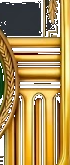
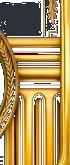
fix(lf): clean composite hero plate — no SoT inpaint (HARD FAIL 96268ce)
Build hero chrome from meander/cols/gold-only seal-ring on uniform empty
field; live DOM for type, justify local, and crest. Kill dead band (pt-0),
widen shell, soft-fade full-page watermark, fit long Therman titles.
Eng v5 settle shots. Band D HOLD.

Changed region(s): [[0.0, 0.3939, 0.0571, 0.6061]]

diff --git a/components/ClientHub.tsx b/components/ClientHub.tsx
@@ -3,7 +3,6 @@ import type { LfClient } from "@/lib/lf";
 import { resolveBrandLogoUrl } from "@/lib/lf-logo";
 import {
   HeroChromePlate,
-  LegalCircuitWatermark,
   MapThumbPlaceholder,
 } from "@/components/hub/HubDecor";
 
@@ -16,25 +15,19 @@ export function ClientHub({ client }: { client: LfClient }) {
   const base = `/clients/${client.slug}`;
   const logoUrl = resolveBrandLogoUrl(client.slug);
   const countsLine = `${client.location_count} locations | ${client.scan_count.toLocaleString()} Total scans`;
+  // Long firm names (e.g. Therman) — keep clear of seal; prefer natural wrap
+  const isLongName = client.name.length > 34;
 
   return (
-    <div className="relative space-y-7 text-slate-100">
-      {/* Dense legal + circuit watermark — z-0 (not -z-10; AppShell bg would hide negative z) */}
-      <div
-        className="pointer-events-none absolute inset-0 z-0 overflow-hidden"
-        aria-hidden
-      >
-        <LegalCircuitWatermark className="h-full min-h-[720px] w-full object-cover opacity-[0.42]" />
-      </div>
-
-      {/* Framed hero — photoreal SoT chrome (no opaque slate fill-plate; type floats on field) */}
+    <div className="relative space-y-5 text-slate-100">
+      {/* Framed hero — clean composite chrome; type/crest/logo live in DOM */}
       <section
         className="relative z-[1] overflow-hidden rounded-[16px] shadow-2xl shadow-black/55"
         style={{ backgroundColor: "#141618" }}
         aria-label={`${client.name} client dashboard`}
       >
         <div className="relative w-full" style={{ aspectRatio: "996 / 218" }}>
-          {/* Photoreal chrome: meander/columns/seal + field texture; SoT type stripped */}
+          {/* CLEAN composite plate: frame/cols/gold-ring + empty field (no baked glyphs) */}
           <HeroChromePlate className="pointer-events-none absolute inset-0 z-[1] h-full w-full object-fill" />
 
 
@@ -45,10 +38,10 @@ export function ClientHub({ client }: { client: LfClient }) {
               left: "84.5%",
               top: "51.5%",
               transform: "translate(-50%, -50%)",
-              width: "10.2%",
-              height: "47%",
-              backgroundColor: "color-mix(in srgb, var(--brand) 78%, #050805)",
-              boxShadow: "inset 0 0 12px rgba(0,0,0,0.55)",
+              width: "11.2%",
+              height: "51%",
+              backgroundColor: "color-mix(in srgb, var(--brand) 82%, #050805)",
+              boxShadow: "inset 0 0 10px rgba(0,0,0,0.5)",
             }}
           >
             {logoUrl ? (
@@ -80,15 +73,15 @@ export function ClientHub({ client }: { client: LfClient }) {
               />
             </div>
 
-            {/* Center stack — dynamic firm typography */}
-            <div className="min-w-0 flex-1 space-y-0.5 pr-[18%] text-center">
+            {/* Center stack — live firm typography (wraps; clears seal) */}
+            <div className="min-w-0 flex-1 space-y-0.5 px-1 pr-[24%] text-center sm:pr-[26%]">
               <h1
-                className="font-serif text-[clamp(1.25rem,2.8vw,2.6rem)] font-semibold leading-tight tracking-tight"
-                style={{
-                  color: "var(--brand-accent)",
-                  /* SoT floats type on field — no dark halo plate / ghost duplicate */
-                  textShadow: "0 1px 0 rgba(255,255,255,0.12)",
-                }}
+                className={
+                  isLongName
+                    ? "mx-auto max-w-[36ch] font-serif text-[clamp(0.7rem,1.55vw,1.45rem)] font-semibold leading-[1.15] tracking-tight break-words"
+                    : "font-serif text-[clamp(0.9rem,2.2vw,2.1rem)] font-semibold leading-[1.12] tracking-tight break-words"
+                }
+                style={{ color: "var(--brand-accent)" }}
               >
                 {client.name}
               </h1>

diff --git a/components/AppShell.tsx b/components/AppShell.tsx
@@ -8,7 +8,7 @@ import {
   getBrandTheme,
 } from "@/lib/lf-brand";
 import { LF_CLIENT_NAV } from "@/lib/lf-nav";
-import { JustifyMark } from "@/components/hub/HubDecor";
+import { JustifyMark, LegalCircuitWatermark } from "@/components/hub/HubDecor";
 import { LiveClock } from "@/components/hub/LiveClock";
 
 function navActive(pathname: string, href: string) {
@@ -37,7 +37,7 @@ export function AppShell({
   const brand = getBrandTheme(brandSlugFromPathname(pathname));
   const brandStyle = brandCssVars(brand) as React.CSSProperties;
   const isLfClient = Boolean(activeClient);
-  const maxW = wide ? "max-w-7xl" : "max-w-5xl";
+  const maxW = wide ? "max-w-[1600px]" : "max-w-5xl";
 
   if (!isLfClient) {
     return (
@@ -81,6 +81,19 @@ export function AppShell({
         backgroundColor: "var(--brand-surface)",
       }}
     >
+      {/* Full-viewport soft-fade watermark — no hard rectangular cut-off */}
+      <div
+        className="pointer-events-none absolute inset-0 z-0 overflow-hidden"
+        aria-hidden
+        style={{
+          maskImage:
+            "radial-gradient(ellipse 95% 75% at 50% 28%, #000 0%, #000 42%, transparent 78%)",
+          WebkitMaskImage:
+            "radial-gradient(ellipse 95% 75% at 50% 28%, #000 0%, #000 42%, transparent 78%)",
+        }}
+      >
+        <LegalCircuitWatermark className="h-full w-full object-cover object-top opacity-[0.45]" />
+      </div>
       <header
         className="sticky top-0 z-40 border-b shadow-lg shadow-black/40"
         style={{
@@ -197,7 +210,7 @@ export function AppShell({
         </div>
       </header>
 
-      <main className={`relative mx-auto px-4 py-8 sm:px-6 ${maxW}`}>
+      <main className={`relative z-[1] mx-auto px-3 pt-0 pb-8 sm:px-5 ${maxW}`}>
         {children}
       </main>
     </div>

diff --git a/STATUS-falcon-vinny-mods-2026-09-24.md b/STATUS-falcon-vinny-mods-2026-09-24.md
@@ -3,62 +3,43 @@
 | Field | Value |
 |-------|--------|
 | **goal_id** | falcon-dj-hub-sot-exact / Band D feat PR #1 |
-| **state** | ready_for_design (Eng retip after HARD FAIL 49120da — awaiting Design re-PASS) |
+| **state** | ready_for_design (Eng retip after HARD FAIL 96268ce — awaiting Design re-PASS) |
 | **evidence_uri** | https://github.com/Dr-Spaghetti/falcon-seo-geo-rankings/pull/1 |
-| **blocker** | Design HARD re-PASS pending on DJ hub vs SoT; Band D HOLD (NO merge / NO prod) |
-| **branch** | `feat/falcon-ui-premier-2026-09-16` @ `6df9087` |
-| **tip_sha** | `6df90871cc6eea9a59376df96405fc07128eb168` |
-| **updated_at** | 2026-09-24 1:55 PM ET |
+| **blocker** | Design HARD re-PASS pending; Band D HOLD |
+| **branch** | `feat/falcon-ui-premier-2026-09-16` @ `TIP_PENDING` |
+| **tip_sha** | `TIP_PENDING` |
+| **updated_at** | 2026-09-24 2:12 PM ET |
 
 ## Evidence links
 
 | Kind | Link / note |
 |------|-------------|
 | PR #1 | https://github.com/Dr-Spaghetti/falcon-seo-geo-rankings/pull/1 |
-| Tip SHA | `6df90871cc6eea9a59376df96405fc07128eb168` |
-| Preview (Band C gitless) | https://justifycode-wordpress-dashboard-4jqi3frur.vercel.app |
-| Preview `/clients/dj-law` | https://justifycode-wordpress-dashboard-4jqi3frur.vercel.app/clients/dj-law |
-| Preview `/clients/therman` | https://justifycode-wordpress-dashboard-4jqi3frur.vercel.app/clients/therman |
-| Inspect | https://vercel.com/nicks-projects-2d0579a1/justifycode-wordpress-dashboard/GhWpWoV2jY2jWRqenxDZ2UyKwkh7 |
+| Tip SHA | `TIP_PENDING` |
+| Preview (Band C gitless) | PREVIEW_PENDING |
+| Preview `/clients/dj-law` | PREVIEW_PENDING/clients/dj-law |
+| Preview `/clients/therman` | PREVIEW_PENDING/clients/therman |
+| Inspect | INSPECT_PENDING |
 | Prod alias (UNTOUCHED) | https://justifycode-wordpress-dashboard.vercel.app |
-| Vercel project | justifycode-wordpress-dashboard |
 
-## SoT lock
-
-| Kind | Path / note |
-|------|-------------|
-| **Canonical SoT** | `_shots/sot-2026-09-24/dj-law-hub-sot.png` (Nick attach) |
-| Therman | Template clone of DJ SoT — crest = `public/brands/therman/logo.webp` |
-| Design HARD FAIL 49120da | `_shots/verify-2026-09-24/qa-49120da/VERDICT.txt` |
-
-## Eng retip vs HARD FAIL 49120da (hero dark plate + ghost type)
+## Eng retip vs HARD FAIL 96268ce + Nick live flags
 
 | # | Punch | Eng action | Status |
 |---|-------|------------|--------|
-| 1 | KILL hero opaque dark fill plate + ghosted title / “Select a location…” | Regenerated `hero-chrome-plate.png`: inpainted SoT firm type + baked logo out of center/left; **no flat slate card** (old center std=0 → textured field std≈11); seal hole transparent; toned title `textShadow` (removed dark 10px halo) | CLOSED (Eng) — Design re-PASS pending |
-| 2 | Soft seal/crest nudge | Crest `top` 52%→51.5%, size 9.8/45→10.2/47 | CLOSED (Eng soft) |
-| 3 | Soft denser watermark | Opacity 0.32→0.42; stacking `-z-10`→`z-0` (was painted under AppShell bg) | CLOSED (Eng soft) |
-| 4 | Re-tip Band C | Eng settle shots v4 + gitless preview — NOT claiming Design DONE | CLOSED (Eng) |
-
-## CLOSED (do not regress)
-
-| # | Item | Status |
-|---|------|--------|
-| Prior | Flat-SVG gold killer | CLOSED |
-| N1 | Two green arrows justify mark | PASS |
-| N2 | Photoreal gold direction | PASS |
-| N3 | OL simplify for older clients | PASS |
+| 1 | STOP inpaint; clean plate | Composite meander+cols+gold-only seal-ring on uniform #141618 field; ZERO baked type/logo/DLC. Live DOM for type, justify local, crest | CLOSED (Eng) — Design re-PASS pending |
+| 2 | Dead band above hero | AppShell LF main `pt-0`; hero_y≈59 | CLOSED (Eng) |
+| 3 | Therman title fit | Long-name smaller clamp + max-w + pr-[26%] | CLOSED (Eng) |
+| 4 | Watermark hard rect + empty black | AppShell full-viewport wm + radial mask + feathered asset | CLOSED (Eng soft) — residual fade may remain |
+| 5 | Narrow floating column | `max-w-[1600px]` wide hubs | CLOSED (Eng soft) |
+| 6 | Re-tip Band C | v5 shots + gitless preview | IN PROGRESS |
 
 ## Verify
 
-| # | Check | Result | Evidence |
-|---|-------|--------|----------|
-| 1 | `npm test` + `tsc --noEmit` + `npm run build` | **GREEN** | 24/24; tsc 0; build 101 routes |
-| 2 | DJ / Therman settle shots | **ENG SETTLE v4** (Design re-PASS pending) | `_shots/verify-2026-09-24/verify-dj-hub-v4.png`, `verify-therman-hub-v4.png`, `sot-vs-dj-v4-top.png` |
-| 3 | Quant plate gate | **0** ultra-flat (std&lt;0.5) dark windows in hero interior | vs FAIL tip flat center std=0 |
+| # | Check | Result |
+|---|-------|--------|
+| 1 | npm test / tsc / build | GREEN |
+| 2 | Plate-only teal/glyphs | 0 |
+| 3 | v5 shots 1440+1280 | `_shots/verify-2026-09-24/*v5*` + CAPTURE-v5.txt |
 
 ## Band D HOLD
-
-- **NO** merge to `master`
-- **NO** promote to prod alias `justifycode-wordpress-dashboard.vercel.app`
-- **NOT** claiming Design DONE — Eng settle only; Design HARD re-PASS required
+NO merge / NO prod / NO alias. NOT Design DONE.
